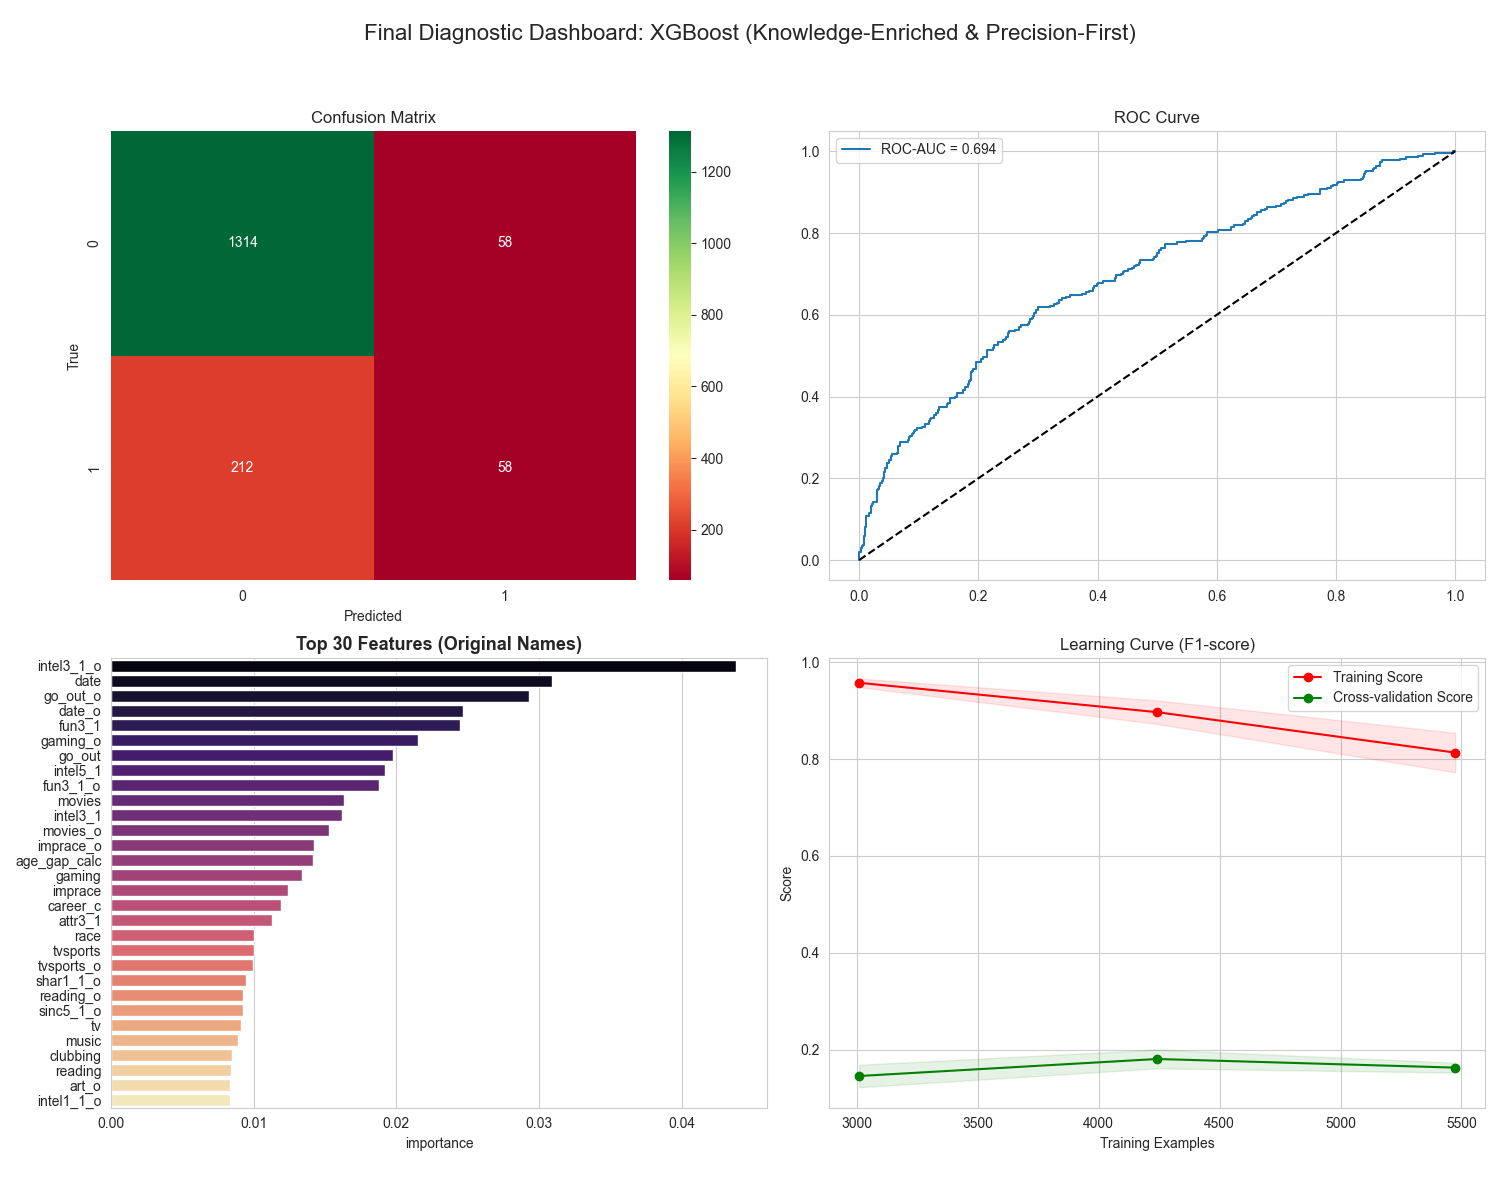
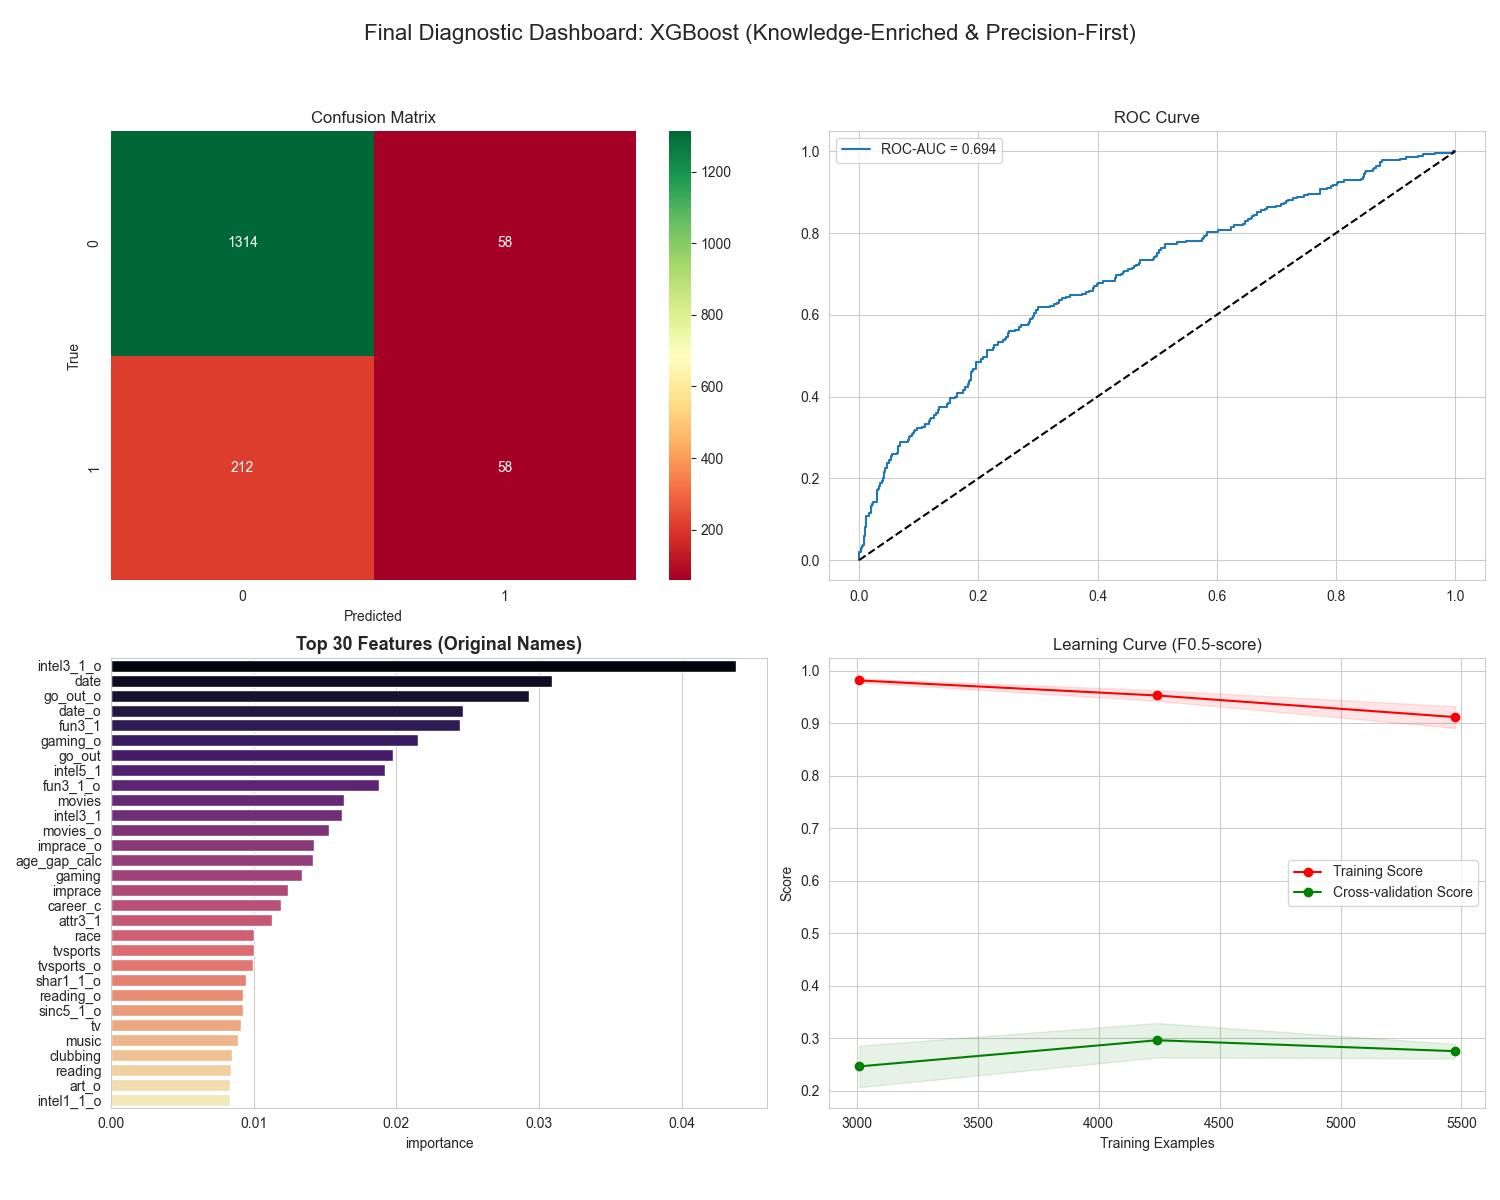
final

diff --git a/src/05_evaluation.py b/src/05_evaluation.py
@@ -6,7 +6,7 @@ import joblib
 import os
 from sklearn.metrics import (
     f1_score, precision_score, recall_score, accuracy_score, roc_auc_score,
-    confusion_matrix, classification_report, roc_curve, auc, fbeta_score, average_precision_score
+    confusion_matrix, classification_report, roc_curve, auc, fbeta_score, average_precision_score, make_scorer
 )
 from sklearn.model_selection import learning_curve, StratifiedGroupKFold
 import warnings
@@ -40,7 +40,7 @@ print("\n[0] Loading Locked Winner Model and Hidden Test Set...")
 if not os.path.exists(CONFIG['paths']['winner_model']):
     raise FileNotFoundError(f"Winner model not found at {CONFIG['paths']['winner_model']}. Run Task 04 first.")
 
-# Load winner inf   o
+# Load winner info
 winner = joblib.load(CONFIG['paths']['winner_model'])
 model_name = winner['name']
 pipeline = winner['pipeline']
@@ -160,9 +160,7 @@ preprocessor = pipeline.named_steps['preprocessor']
 try:
     # Pass original input names to the transformer to get meaningful output names
     raw_names = preprocessor.get_feature_names_out(feature_names)
-    
     # Clean prefixes like 'std__', 'minmax__', 'cat__pass_cat__', 'cat__ohe__'
-    # We take the part after the last '__'
     clean_feature_names = [n.split('__')[-1] for n in raw_names]
 except Exception as e:
     print(f"   ⚠️ Warning: Could not extract feature names automatically: {e}")
@@ -170,7 +168,7 @@ except Exception as e:
     if hasattr(winner_model, 'feature_importances_') and len(feature_names) == len(winner_model.feature_importances_):
         clean_feature_names = feature_names
     else:
-        clean_feature_names = [f"f{i}" for i in range(len(winner_model.feature_importances_))]
+        clean_feature_names = [f"f{i}" for i in range(len(winner_model.feature_importances_)) if hasattr(winner_model, 'feature_importances_')]
 
 if hasattr(winner_model, 'feature_importances_'):
     imp = pd.DataFrame({'feature': clean_feature_names, 'importance': winner_model.feature_importances_})
@@ -212,8 +210,10 @@ try:
     groups_all = df_all['pair_id'] if 'pair_id' in df_all.columns else None
     
     cv = StratifiedGroupKFold(n_splits=3, shuffle=True, random_state=42)
+    # Use F0.5 for learning curve to match modeling strategy
+    f05_scorer = make_scorer(fbeta_score, beta=0.5)
     train_sizes, train_scores, test_scores = learning_curve(
-        pipeline, X_all, y_all, groups=groups_all, cv=cv, scoring='f1', n_jobs=-1, 
+        pipeline, X_all, y_all, groups=groups_all, cv=cv, scoring=f05_scorer, n_jobs=-1, 
         train_sizes=np.linspace(0.1, 1.0, 5)
     )
     
@@ -226,7 +226,7 @@ try:
     axes[1,1].plot(train_sizes, test_mean, 'o-', color='g', label='Cross-validation Score')
     axes[1,1].fill_between(train_sizes, train_mean - train_std, train_mean + train_std, alpha=0.1, color='r')
     axes[1,1].fill_between(train_sizes, test_mean - test_std, test_mean + test_std, alpha=0.1, color='g')
-    axes[1,1].set_title('Learning Curve (F1-score)')
+    axes[1,1].set_title('Learning Curve (F0.5-score)')
     axes[1,1].set_xlabel('Training Examples')
     axes[1,1].set_ylabel('Score')
     axes[1,1].legend(loc="best")